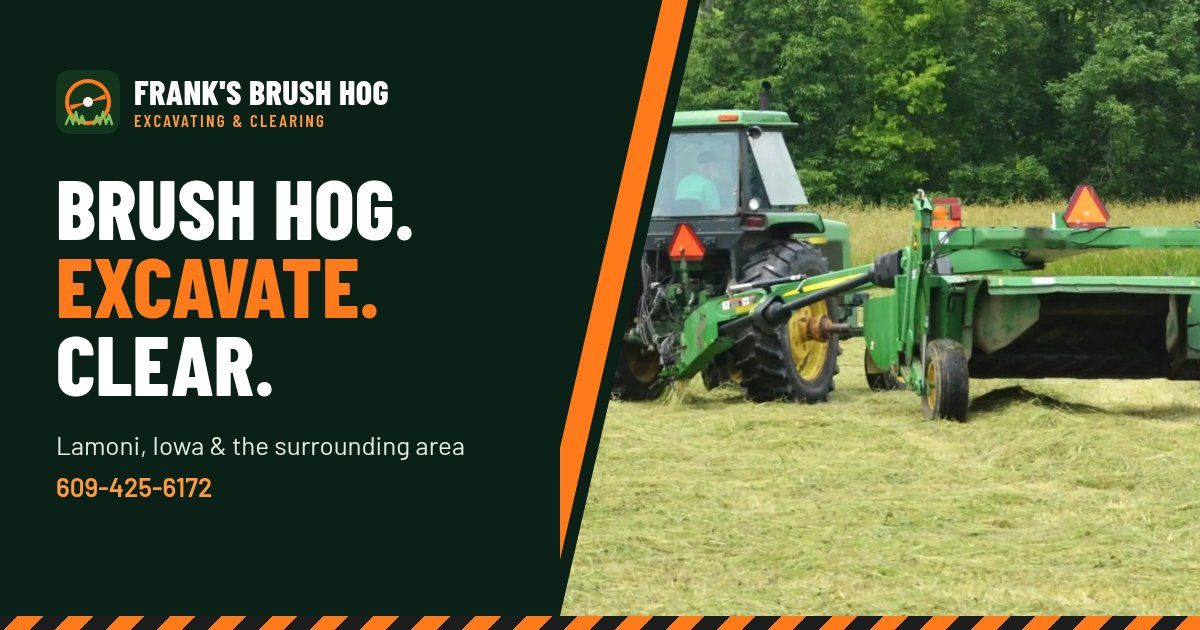
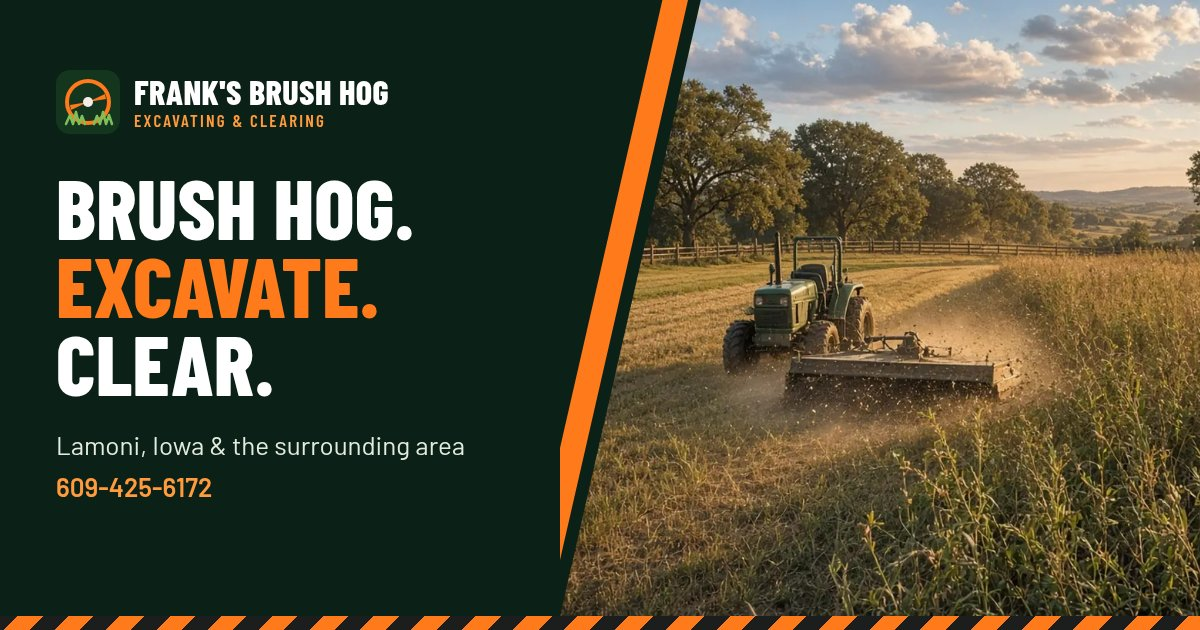
Swap in AI-generated illustrations (hero brush hog, mini excavator, cleared fence line band); remove stock photos and credits; new OG image

diff --git a/index.html b/index.html
@@ -22,8 +22,8 @@
 <meta property="og:image:height" content="630">
 <meta name="twitter:card" content="summary_large_image">
 <link rel="preload" href="assets/fonts/barlow-condensed-800.woff2" as="font" type="font/woff2" crossorigin>
-<link rel="preload" as="image" href="assets/img/hero-band-800.webp" media="(max-width: 879px)">
-<link rel="preload" as="image" imagesrcset="assets/img/hero-crop-800.webp 800w, assets/img/hero-crop-1300.webp 1300w" imagesizes="60vw" media="(min-width: 880px)">
+<link rel="preload" as="image" href="assets/img/hero-brushhog-band-800.webp" media="(max-width: 879px)">
+<link rel="preload" as="image" imagesrcset="assets/img/hero-brushhog-800.webp 800w, assets/img/hero-brushhog-1200.webp 1200w" imagesizes="60vw" media="(min-width: 880px)">
 <link rel="stylesheet" href="assets/styles.css">
 <script type="application/ld+json">
 {
@@ -55,11 +55,7 @@
 </head>
 <body>
 <!--
-  Image credits (Unsplash License: free for commercial use, no attribution required; credited anyway):
-  - Hero: "A tractor mows hay in a field." by Roger Starnes Sr, https://unsplash.com/photos/PMcTNdSDwsA
-    (brand lettering on the equipment retouched out)
-  - Excavating: "A yellow and black excavator on a pile of dirt" by Frans Leivo, https://unsplash.com/photos/jmunq_9UIHA
-    (cropped; brand lettering retouched out)
+  Images: AI-generated illustrations (Grok Imagine), not photos of Frank's own jobs.
   Fonts: Barlow / Barlow Condensed (SIL Open Font License), self-hosted.
   Icons, logo mark and illustrations: original inline SVG.
 -->
@@ -87,8 +83,8 @@
 <main id="main">
 <section class="hero">
   <picture class="hero-pic">
-    <source media="(max-width: 879px)" srcset="assets/img/hero-band-800.webp" width="800" height="500">
-    <img class="hero-img" src="assets/img/hero-crop-1300.webp" srcset="assets/img/hero-crop-800.webp 800w, assets/img/hero-crop-1300.webp 1300w" sizes="60vw" width="1300" height="1020" alt="A tractor mowing a grassy field with a tree line behind it" fetchpriority="high">
+    <source media="(max-width: 879px)" srcset="assets/img/hero-brushhog-band-800.webp" width="800" height="500">
+    <img class="hero-img" src="assets/img/hero-brushhog-1200.webp" srcset="assets/img/hero-brushhog-800.webp 800w, assets/img/hero-brushhog-1200.webp 1200w" sizes="60vw" width="1200" height="800" alt="A tractor pulling a brush hog through tall weeds at golden hour" fetchpriority="high">
   </picture>
   <div class="wrap hero-in">
     <div class="hero-copy">
@@ -147,9 +143,13 @@
   </div>
 </section>
 
+<div class="band">
+  <img src="assets/img/fenceline-1280.webp" srcset="assets/img/fenceline-800.webp 800w, assets/img/fenceline-1280.webp 1280w, assets/img/fenceline-1600.webp 1600w" sizes="100vw" width="1600" height="900" loading="lazy" decoding="async" alt="A freshly cleared fence line with mowed grass and mulched brush">
+</div>
+
 <section class="split">
   <div class="split-img">
-    <img src="assets/img/excavating-1000.webp" srcset="assets/img/excavating-600.webp 600w, assets/img/excavating-1000.webp 1000w" sizes="(max-width: 860px) 100vw, 50vw" width="1000" height="928" loading="lazy" decoding="async" alt="An excavator lifting a bucket of dirt on a job site">
+    <img src="assets/img/excavator-1000.webp" srcset="assets/img/excavator-600.webp 600w, assets/img/excavator-1000.webp 1000w" sizes="(max-width: 860px) 100vw, 50vw" width="1000" height="833" loading="lazy" decoding="async" alt="A mini excavator grading a cleared lot next to a brush pile">
   </div>
   <div class="split-txt">
     <p class="kicker kicker-light">Brush hog. Excavate. Clear.</p>
@@ -244,7 +244,7 @@
       <span class="brand-txt"><strong>Frank's Brush Hog</strong><small>Excavating &amp; Clearing</small></span>
     </div>
     <p>210 W. 3rd St, Lamoni, IA 50140<br><a href="tel:+16094256172">609-425-6172</a> · <a href="mailto:frank@franksbrushhog.com">frank@franksbrushhog.com</a></p>
-    <p class="fine">© <span id="yr">2026</span> Frank's Brush Hog, Excavating &amp; Clearing · Member, Lamoni Area Chamber of Commerce<br>Photos are illustrative stock images, not photos of Frank's own jobs.</p>
+    <p class="fine">© <span id="yr">2026</span> Frank's Brush Hog, Excavating &amp; Clearing · Member, Lamoni Area Chamber of Commerce<br>Images are AI-generated illustrations, not photos of Frank's own jobs.</p>
   </div>
 </footer>
 

diff --git a/assets/styles.css b/assets/styles.css
@@ -71,7 +71,7 @@ svg{width:1em;height:1em;fill:currentColor;flex:none}
   .hero-in{padding:80px 0 100px;width:min(1180px,100% - 40px)}
   .hero-copy{max-width:min(520px,38vw)}
   .hero h1{font-size:clamp(3rem,4.7vw,5.2rem)}
-  .hero-img{object-position:28% 50%}
+  .hero-img{object-position:42% 55%}
   .hero-tags{gap:8px 18px;font-size:.92rem}
 }
 /* sections */
@@ -94,6 +94,11 @@ section{position:relative}
 .card li{position:relative;padding-left:24px;margin:5px 0;font-weight:500}
 .card li::before{content:"";position:absolute;left:2px;top:.55em;width:10px;height:6px;border-left:3px solid var(--or);border-bottom:3px solid var(--or);transform:rotate(-45deg)}
 
+.band{position:relative;height:clamp(220px,34vw,460px);overflow:hidden;background:var(--g8);border-bottom:6px solid var(--or)}
+.band img{width:100%;height:100%;object-fit:cover;object-position:50% 62%}
+.band::before,.band::after{content:"";position:absolute;left:0;right:0;height:18%;z-index:1;pointer-events:none}
+.band::before{top:0;background:linear-gradient(180deg,rgba(244,239,230,.55),transparent)}
+.band::after{bottom:0;background:linear-gradient(0deg,rgba(15,42,29,.6),transparent)}
 .split{display:grid;grid-template-columns:1fr;background:var(--g8);color:#fff}
 .split-img{min-height:300px;position:relative}
 .split-img img{width:100%;height:100%;object-fit:cover;position:absolute;inset:0}

diff --git a/README.md b/README.md
@@ -9,5 +9,4 @@ Plain HTML/CSS, no build step. Served by GitHub Pages from `main` (root).
 
 Before going live on franksbrushhog.com: remove the `<meta name="robots" content="noindex">` line in `index.html`.
 
-Image credits (Unsplash License): hero tractor photo by Roger Starnes Sr (unsplash.com/photos/PMcTNdSDwsA);
-excavator photo by Frans Leivo (unsplash.com/photos/jmunq_9UIHA). Brand lettering retouched out. Photos are illustrative.
+Images in `assets/img/` are AI-generated illustrations (Grok Imagine), not photos of Frank's own jobs.
